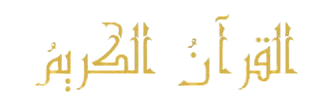
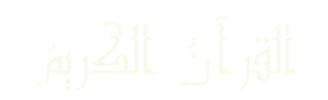
azkar

diff --git a/Azkar/CSS/style.css b/Azkar/CSS/style.css
@@ -53,6 +53,7 @@
  .azkar {
   background-image: linear-gradient(var(--background-color2),var(--background-color));
   color: white;
+  
  .container {
   padding: 100px 0;
   display: flex;
@@ -60,6 +61,7 @@
   align-items: center;
   min-height: 100vh;
  }
+
   .boxes {
     display: flex;
     flex-wrap: wrap;
@@ -96,7 +98,7 @@
     width: 100%;
     height: 70px;
     box-shadow: 5px 5px 15px var(--alt-main-color);
-    color: var(--main-color);
+    color: beige;
 }
 /* End Azkar Page */
 .nav .container {
@@ -108,21 +110,28 @@
   padding-top: 100px;
   padding-bottom: 100px;
   min-height: 100vh;
-  background-color: var(--background-color);
-  color: var(--main-color);
+  background-image: linear-gradient(var(--background-color2),var(--background-color));
+  color: beige;
+}
+.azkar-m .container{
+  display: flex;
+  flex-direction: column;
+  font-size: 20px;
+  text-align: center;
+  height: fit-content;
+}
+#azkar-content{
+  border-bottom: 1px solid;
+  padding: 20px;
 }
 .footer {
   padding: 40px;
-  position: absolute;
-  bottom: 0;
-  box-shadow: 5px 5px 15px var(--alt-main-color);
   width: 100%;
   height: 50px;
-  background-color: var(--background-color);
   color: var(--main-color);
   display: flex;
   align-items: center;
-  justify-content: space-between;
+  justify-content: space-evenly;
   font-size: 30px;
   span{
     width: 50px;
@@ -134,10 +143,10 @@
     background-color: var(--main-color);
     border-radius: 50%;  
   }
-  a {
+  a:hover {
     color: var(--main-color);
   }
-  a:hover {
+  a {
     color: var(--alt-main-color);
   }
 }
@@ -162,5 +171,4 @@
   border: none;
   cursor: pointer;
   font-size: 20px;
-  margin-bottom: 30px;
 }

diff --git a/Azkar/azkar.html b/Azkar/azkar.html
@@ -59,21 +59,22 @@
                     كُفُوًا
                     أَحَدُۢ ٤
                 </p>
-                <p style="margin-top: 20px; text-align: left;">
+                <p style="margin-top: 20px; text-align: center; font-size: 20px">
                     <span id="number-of-repetition">5</span>
                     مرة
                 </p>
+                <div class="footer">
+                    <a id="next">
+                        <i class="fa fa-arrow-right" aria-hidden="true"></i>
+                    </a>
+                    <span class="count" id="number">3</span>
+                    <a id="prev">
+                        <i class="fa fa-arrow-left" aria-hidden="true"></i>
+                    </a>
+                </div>
             </div>
         </div>
-        <div class="footer">
-            <a id="next">
-                <i class="fa fa-arrow-right" aria-hidden="true"></i>
-            </a>
-            <span class="count" id="number">3</span>
-            <a id="prev">
-                <i class="fa fa-arrow-left" aria-hidden="true"></i>
-            </a>
-        </div>
+        
     </div>
     <script src="./js//azkar.js"></script>
 </body>

diff --git a/Quran/style.css b/Quran/style.css
@@ -76,7 +76,7 @@ html {
 .quran {
   padding-top: 100px;
   min-height: 100vh;
-  background-color: var(--background-color);
+  background-image: linear-gradient(var(--background-color2), var(--background-color));
   color: white;
 }
 .quran .container {
@@ -86,6 +86,10 @@ html {
   max-height: calc(100vh - 150px);
   overflow: hidden;
   position: relative;
+  position: absolute;
+  top: 50%;
+  left: 50%;
+  transform: translate(-50%, -50%);
 }
 .quran .side-list #surah-list {
   max-height: 500px;
@@ -173,7 +177,7 @@ html {
   -moz-transform: translateX(50%);
   -ms-transform: translateX(50%);
   -o-transform: translateX(50%);
-  background-color: var(--main-color);
+  background-color: beige;
 }
 @media (max-width: 768px) {
   .quran .container img {
